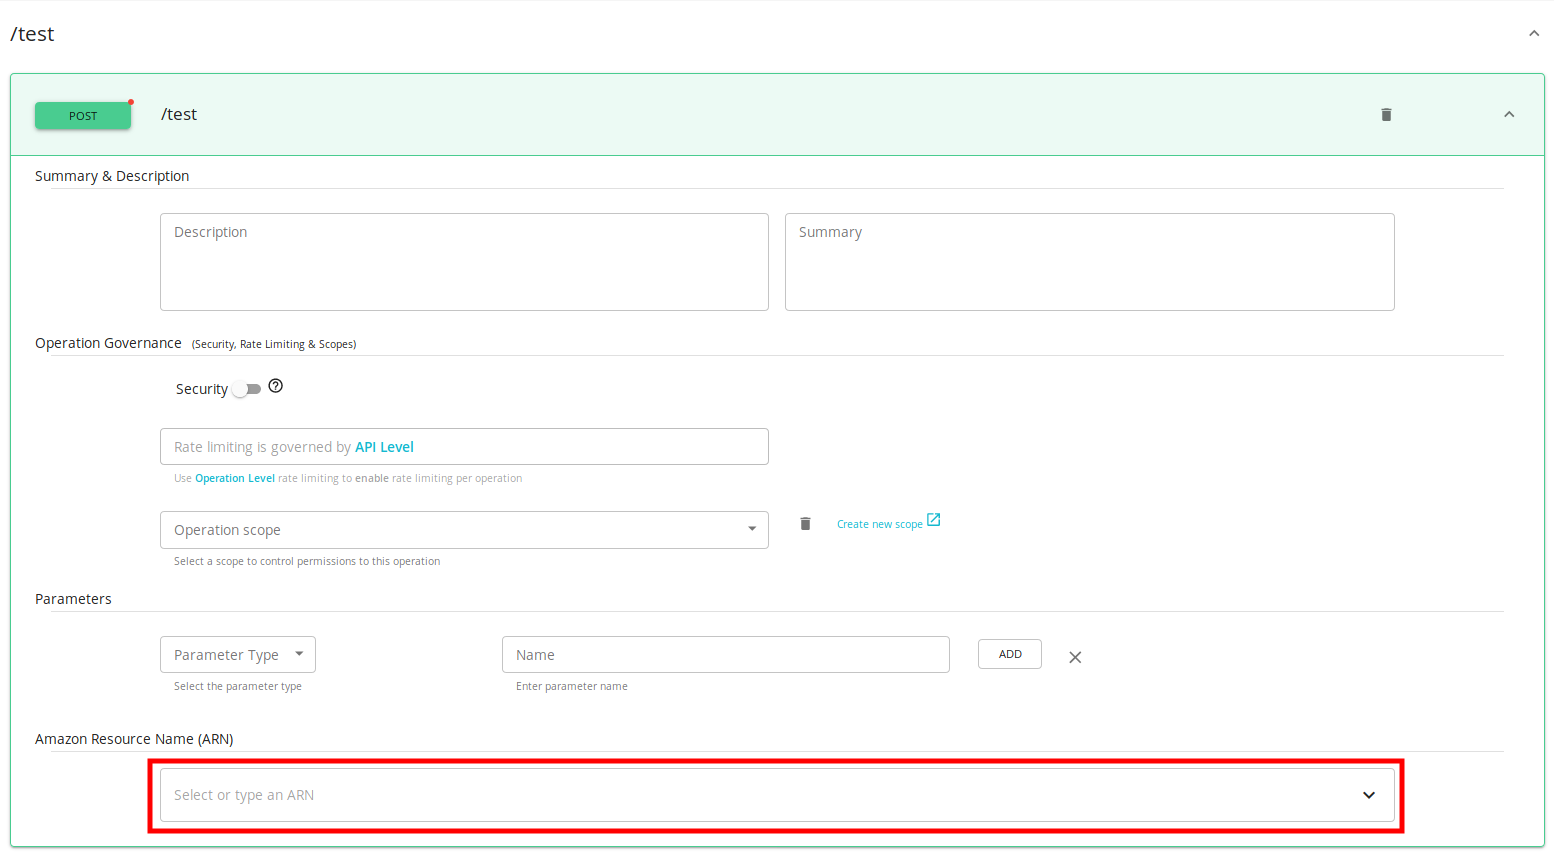
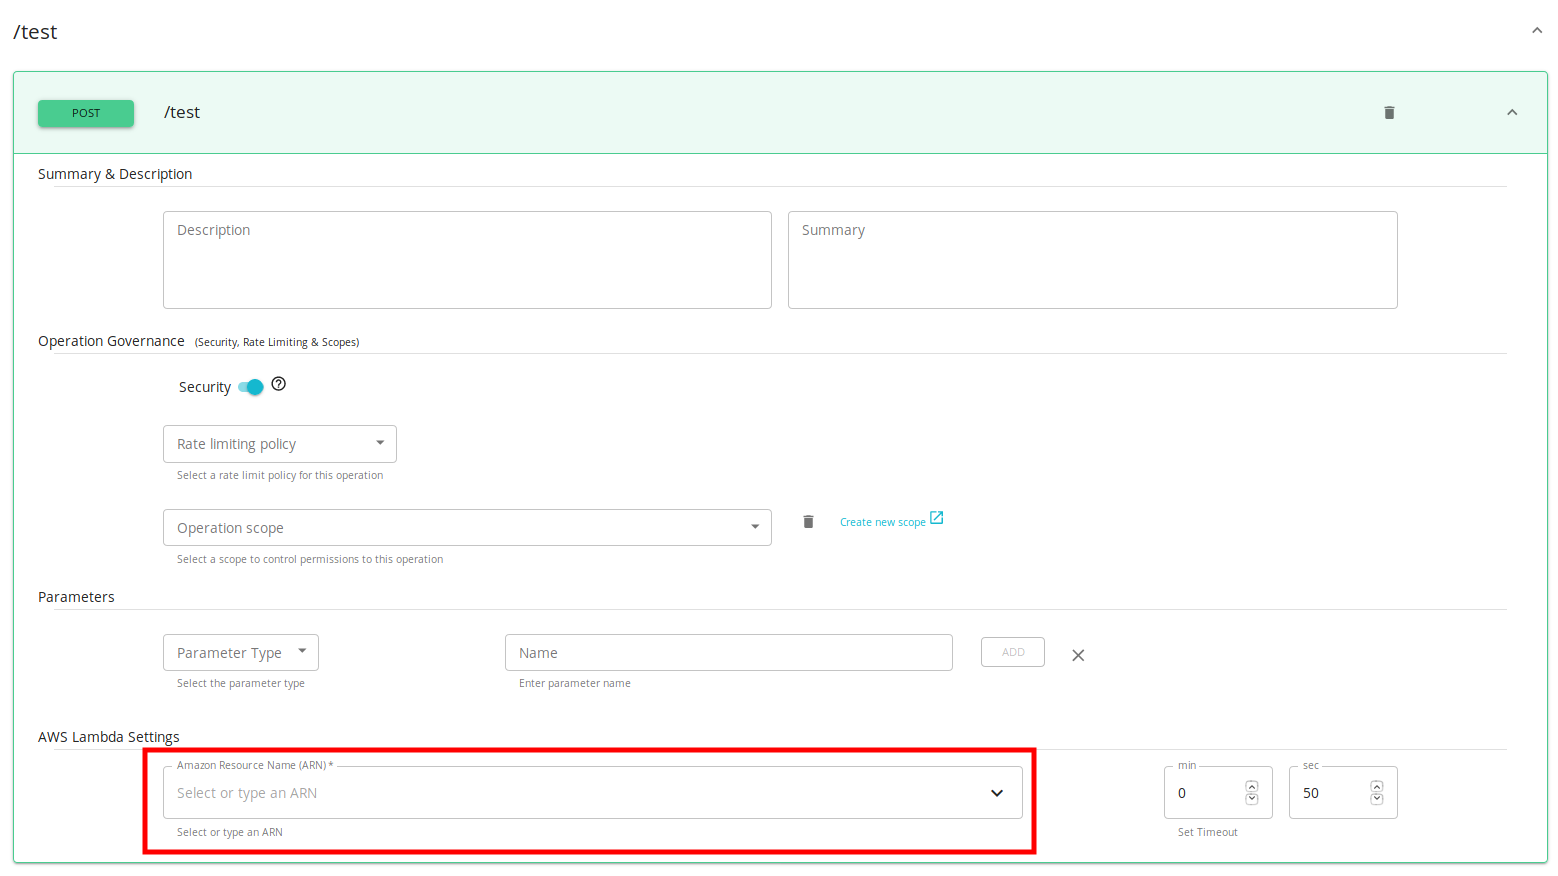
adding timeout

diff --git a/en/docs/WIP/create-and-publish-awslambda-api.md b/en/docs/WIP/create-and-publish-awslambda-api.md
@@ -95,13 +95,20 @@ Now, you have created a new REST API successfully.
 
           [![Add a new resource]({{base_path}}/assets/img/Learn/Tutorials/resource-add-post-test.png)]({{base_path}}/assets/img/Learn/Tutorials/resource-add-post-test.png)
 
-3. Select or type ARN of the resource.
+3. Under AWS Lambda Settings select or type Amazon Resource Name (ARN) for the resource.
 
     You can select already created AWS Lambda functions listed in Autocomplete box.
 
     [![Select or type ARN]({{base_path}}/assets/img/Learn/Tutorials/resource-add-amazon-resource-name.png)]({{base_path}}/assets/img/Learn/Tutorials/resource-add-amazon-resource-name.png)
 
-4. Click **Save**.
+4. Optional - Default AWS SDK Client Execution Timeout is 50 seconds. You can can change it by **Set Timeout** option. 
+
+    - Min Timeout - 1 second
+    - Max Timeout - 15 minutes
+
+    [![Set Timeout]({{base_path}}/assets/img/Learn/Tutorials/resource-set-amazon-resource-timeout.png)]({{base_path}}/assets/img/Learn/Tutorials/resource-set-amazon-resource-timeout.png)
+
+5. Click **Save**.
 
     [![Save resources]({{base_path}}/assets/img/Learn/Tutorials/resource-save.png)]({{base_path}}/assets/img/Learn/Tutorials/resource-save.png)
 
